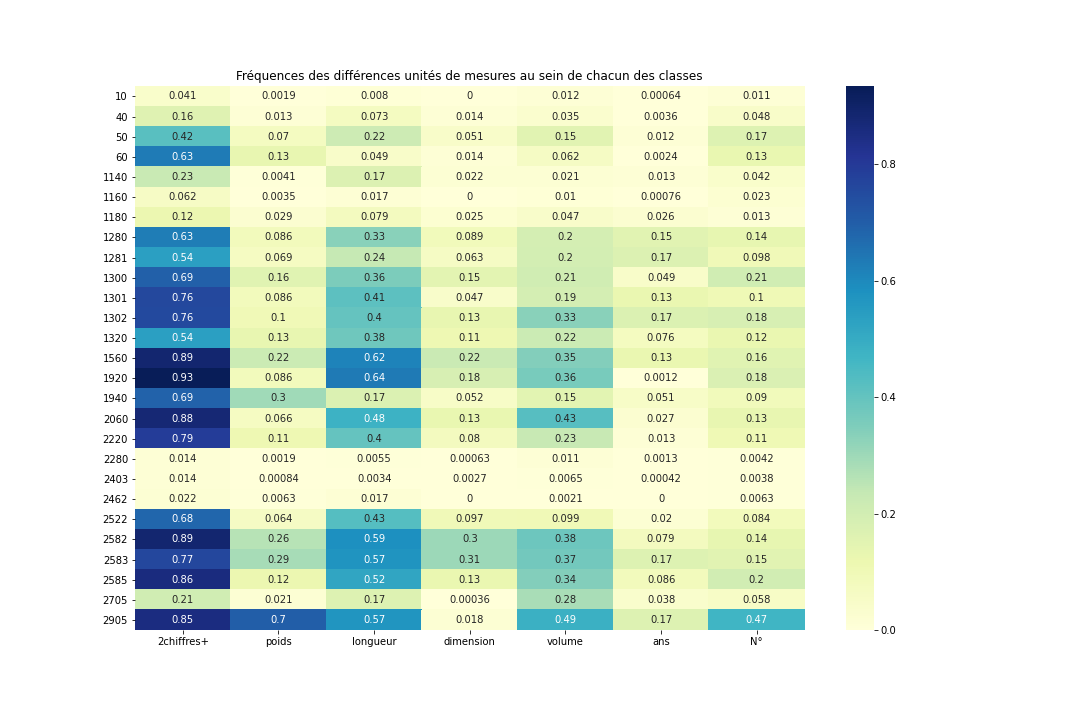
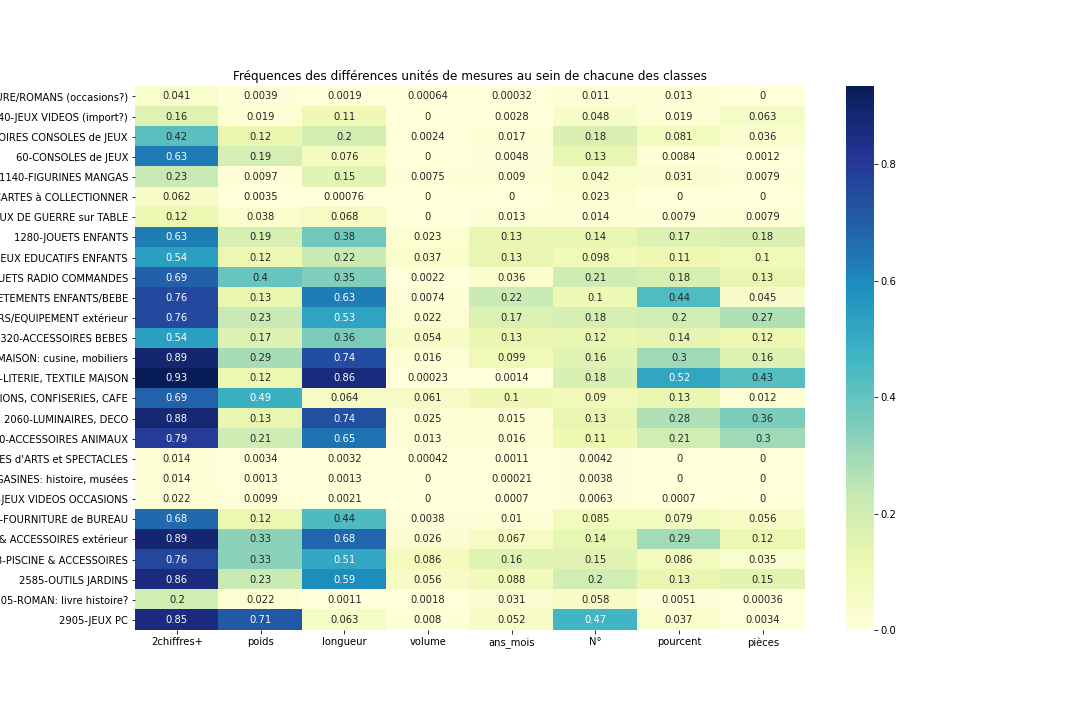
Edit Frequence des unites
Correction graphique et ajout de 2 unites.

Changed region(s): [[0.1528, 0.0917, 0.7639, 0.9167], [0.0, 0.1222, 0.1222, 0.8861]]

diff --git a/Dataviz_initial.md b/Dataviz_initial.md
@@ -16,19 +16,21 @@ On génère une heatmap pour étudier (cf. les expressions régulières de la li
 1. **"2chiffres+"**: présence d'un nombre à au moins 2 chiffres
 1. **"poids"**: présence d'une unité de poids (kg, g, ..)
 1. **"longueur"**: présence d'une unité de longueur (cm,m,..)
-1. **"dimension"**: présence d'une valeur de dimension sous la forme [nombre1] x [nombre 2]
 1. **"volume"**: présence d'une unité de volume (L, cl, ..)
-1. **"ans"**: présence d'une valeur années (an, ans, ..)
+1. **"ans_mois"**: présence d'une valeur années/mois (ans, mois, ..)
 1. **"N°"**: présence d'un N° suivi d'un nombre (N° XX..)
+1. **"pourcent"**: présence d'une valeur en pourcentage
+1. **"pièces**: présence d'un nombre de pièces ( XX pcs ..)
 
 La présence est testée par la recherche des expressions régulières suivantes:
 1. [0-9]{2,}
 1. ([\d.]+)\s+(KG|Kg|g|kg|mg)
-1. ([\d.]+)\s+(cm|mm|m|M)
-1. ([\d.]+)\s+[xX]\s+[\d.]+
-1. ([\d.]+)\s+(mL|L|ml|l|cl)
-1. ([\d.]+)\s+(an|ans)
+1. ([\d.]+)\s?(cm|mm|m|M)[\s.]
+1. ([\d.]+)\s+(mL|L|ml|l|cl)[\s.]
+1. ([\d.]+)\s?(an|ans|An|Ans|mois|Mois)[\s.]
 1. [Nn][°]?[ ]?[\d]+
+1. ([\d.]+)\s?%[\s.]
+1. ([\d.]+)\s?(pc|pcs|pièces|pièce)[\s.]
 
 *Lecture de la heatmap: 63% des articles de la classe 60 contiennent au moins un nombres à au moins 2 chiffres.*
 
